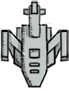
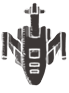
animation destruction vaisseau

diff --git a/src/joueur.py b/src/joueur.py
@@ -5,13 +5,17 @@ from projectile import Projectile
 class Joueur(pygame.sprite.Sprite):
     """classe représentant le vaisseau du joueur
     """
-    def __init__(self, apparences, coord, l_max, h_max):
+    def __init__(self, coord, l_max, h_max, nb_vie):
         pygame.sprite.Sprite.__init__(self)
-        self.apparences = apparences
+        self.apparences = []
+        for i in range(1,8):
+            self.apparences.append(pygame.image.load(f"images/joueur/joueur_{i}.png").convert_alpha())
+        
+        self.vie = nb_vie
         self.num_apparence = 0
         self.horloge_apparence = 0
         self.animation = 1
-        self.image = apparences[0]
+        self.image = self.apparences[0]
         self.rect = self.image.get_rect()
         self.rect.center = coord
         
@@ -60,6 +64,22 @@ class Joueur(pygame.sprite.Sprite):
                     self.projectiles.add(Projectile(self.image_projectile, (self.rect.left +50, self.rect.top +5), vitesse_projectile_joueur, 0))
                     self.projectiles.add(Projectile(self.image_projectile, (self.rect.left +80, self.rect.top +44), vitesse_projectile_joueur, 0))
 
+
+    def touche(self, degat):
+        if self.animation == 1:
+            self.vie -= degat
+            print("il reste", self.vie, "vies")
+            self.horloge_apparence = 0
+            
+            if self.vie < 1 and self.animation != 3:
+                print("\nMort !\n")
+                self.animation = 3
+                self.num_apparence = 3
+                self.image = self.apparences[3]
+            else:
+                self.animation = 2
+
+
     
     def update(self):
         self.projectiles.update()
@@ -71,21 +91,37 @@ class Joueur(pygame.sprite.Sprite):
             self.cooldown += 1
             if self.cooldown > self.cadence_tirs:
                 self.cooldown = 0
-        
-        
+
         match self.animation:
             case 1:
                 self.horloge_apparence += 1
                 
-                if self.horloge_apparence < 20:
+                if self.horloge_apparence % 40 < 20:
+                    self.num_apparence = 0
+                    self.image = self.apparences[0]
+                else:
+                    self.num_apparence = 2
+                    self.image = self.apparences[2]
+            
+            case 2:
+                self.horloge_apparence += 1
+                
+                if self.horloge_apparence % 10 < 5:
                     self.num_apparence = 0
                     self.image = self.apparences[0]
                 else:
                     self.num_apparence = 1
                     self.image = self.apparences[1]
+                if self.horloge_apparence > 100:
+                    self.animation = 1
+                    self.horloge_apparence = 0
+            
+            case 3:
+                self.horloge_apparence += 1
                 
-                if self.horloge_apparence > 40:
-                    self.horloge_apparence= 0
+                if self.horloge_apparence % 11 == 0 and self.num_apparence < len(self.apparences)-1:
+                    self.num_apparence += 1
+                    self.image = self.apparences[self.num_apparence]
     
     def draw(self, surface):
         self.projectiles.draw(surface)

diff --git a/src/ennemis.py b/src/ennemis.py
@@ -28,7 +28,8 @@ class Ennemi(pygame.sprite.Sprite):
     def update(self):
         self.bas(self.vitesse)
         
-        if not self.vivant:             #animation de destruction du vaisseau
+        #animation de destruction du vaisseau
+        if not self.vivant:
             if self.horloge_apparence % 8 == 0:
                 if self.num_apparence < len(self.apparences)-1:
                     self.num_apparence += 1
@@ -45,7 +46,7 @@ class Petit(Ennemi):
     def __init__(self, coord):
         
         apparences = []
-        for i in range(1,4):
+        for i in range(1,5):
             apparences.append(pygame.image.load(f"images/ennemis/petit_{i}.png").convert_alpha())
         
         super().__init__(apparences, coord, vitesse_petit)
@@ -57,7 +58,7 @@ class Moyen(Ennemi):
     def __init__(self, coord):
         
         apparences = []
-        for i in range(1,6):
+        for i in range(1,7):
             apparences.append(pygame.image.load(f"images/ennemis/moyen_{i}.png").convert_alpha())
         
         super().__init__(apparences, coord, vitesse_moyen)
@@ -106,7 +107,7 @@ class Gros(Ennemi):
     def __init__(self, coord):
         
         apparences = []
-        for i in range(1,10):
+        for i in range(1,11):
             apparences.append(pygame.image.load(f"images/ennemis/gros_{i}.png").convert_alpha())
 
         super().__init__(apparences, coord, vitesse_gros)
@@ -293,6 +294,7 @@ class Vague:
             
             #suppression des ennemis en contact avec le joueur
             if e.vivant and e.rect.colliderect(self.joueur):
+                self.joueur.touche(2)
                 e.vivant = False
                   
             #suppression des ennemis touchés

diff --git a/AirFight.py b/AirFight.py
@@ -119,10 +119,7 @@ manette = None
 conf_bouttons = conf_xbox
 
 #création du vaisseau du joueur
-apparences_vaisseau = []
-for i in range(1, 7):
-    apparences_vaisseau.append(pygame.image.load(f"images/joueur/joueur_{i}.png").convert_alpha())
-vaisseau_joueur = Joueur(apparences_vaisseau, (SCREEN_WIDTH //2, SCREEN_HEIGHT //2), SCREEN_WIDTH, SCREEN_HEIGHT)
+vaisseau_joueur = Joueur((SCREEN_WIDTH //2, SCREEN_HEIGHT //2), SCREEN_WIDTH, SCREEN_HEIGHT, 9)
 
 #variable d'action du vaisseau
 dep_haut, dep_bas, dep_gauche, dep_droit = False, False, False, False
@@ -130,7 +127,7 @@ tirer = False
 
 
 v = Vague("vague de test", SCREEN_WIDTH, SCREEN_HEIGHT, vaisseau_joueur, 5,
-          nb_petits=3, nb_moyens=2, nb_gros=1)
+          nb_petits=30, nb_moyens=2, nb_gros=1)
 
 
 jeu_lance = True
